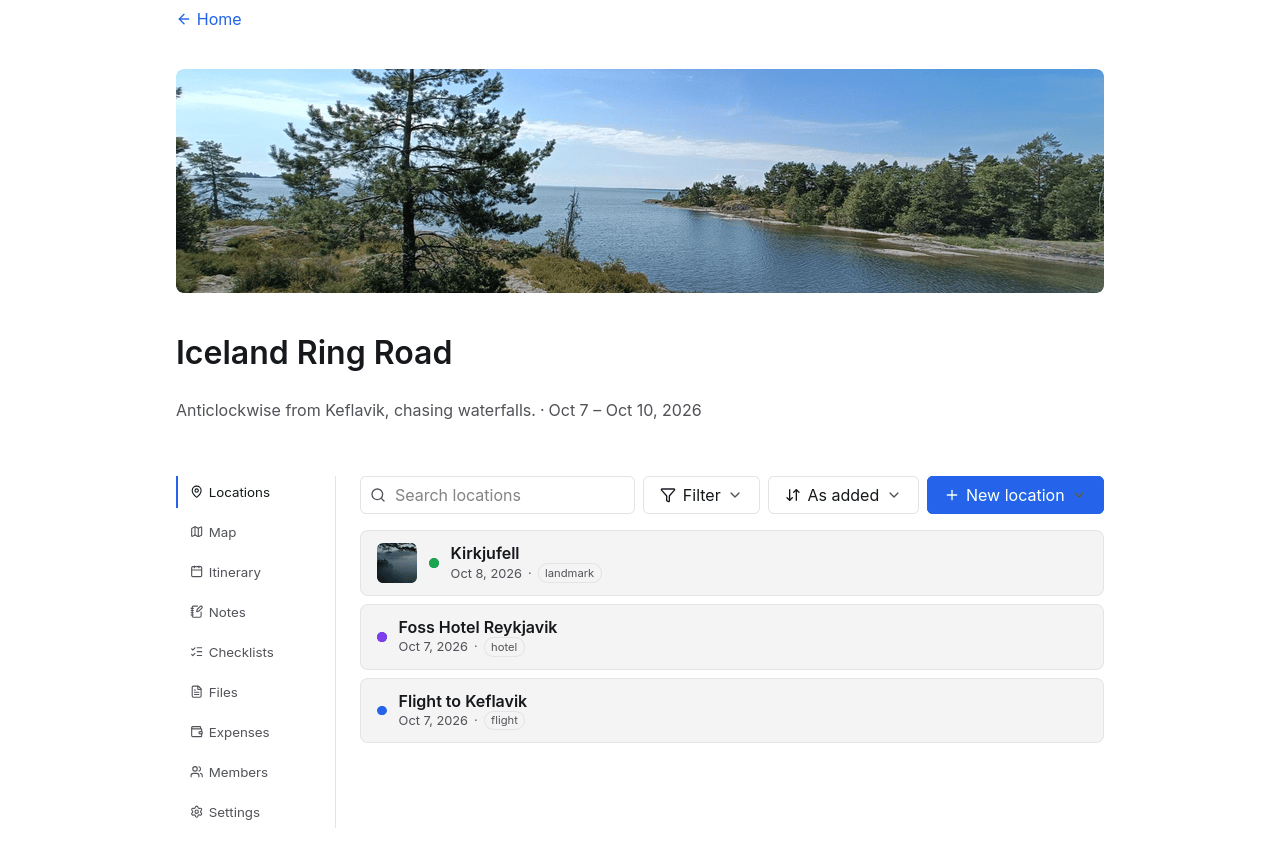
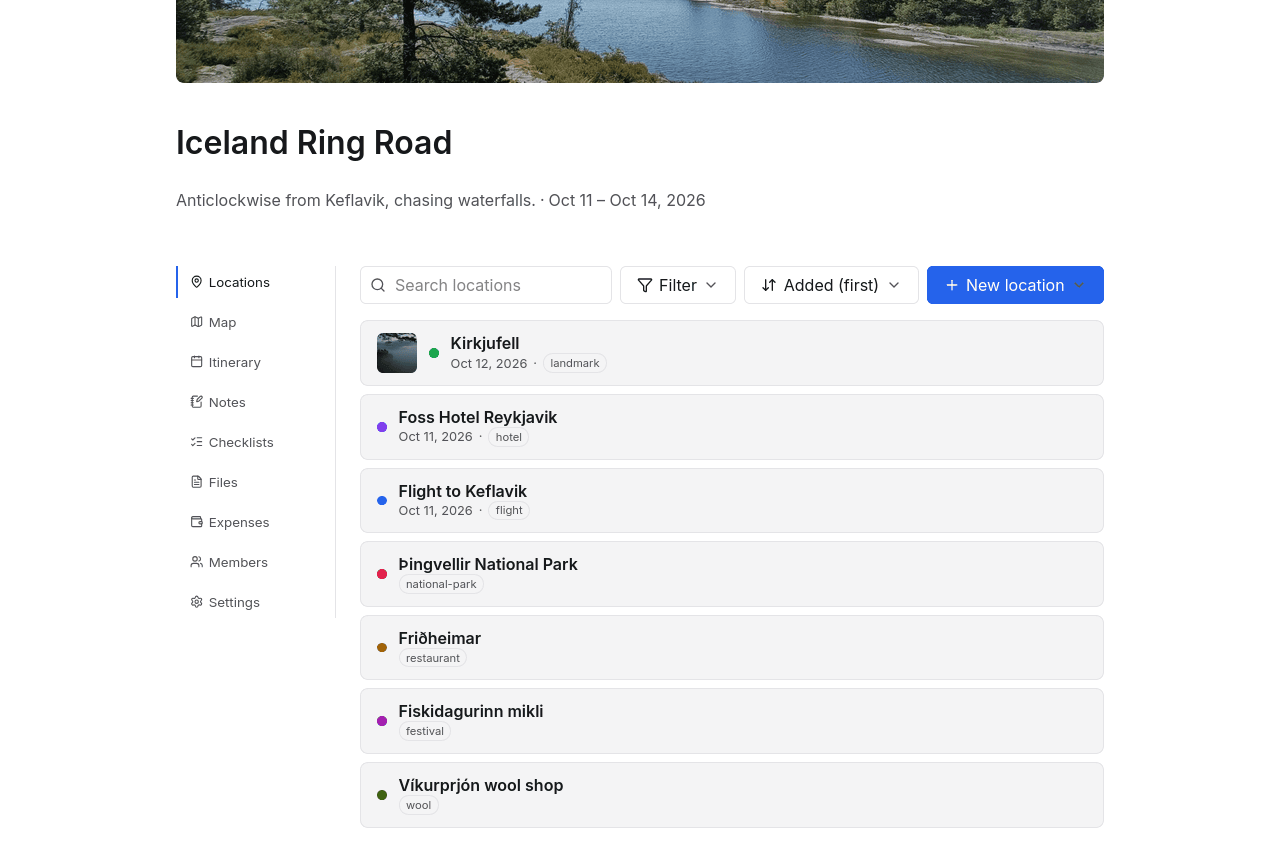
Seed a location for area, food, event and shop
The full demo trip only had a site, a stay and a transport, so four of the
seven categories never had a pin on the map, a card in a screenshot or markup
for the route sweeps to measure. It now has one of each: Þingvellir (area),
Friðheimar (food), Fiskidagurinn mikli (event) and Víkurprjón (shop),
appended after the existing three so items[0..2] keep their roles. All are
more than 5km from the hotel, which the distance-filter spec relies on.

Two things came along:

- ListMapItemsByTrip had no ORDER BY. SQLite returned the markers in
  category-name order (via idx_items_trip_id_category), so an area pin would
  have become the first marker, breaking map-theme.spec.js, which compares
  the first marker with the first legend key. It now orders by created_at,
  id like ListItemsByTrip, so marker order is defined on both dialects.

- The near-miss specs in map.spec.js clicked at the first pin's viewport
  coordinates without scrolling the map into view. With the wider bounds,
  Kirkjufell sits below the fold at 1280x720 and the click missed;
  pinCentres now scrolls the map into view first.

The todo.md entry is removed. locations, map and mobile-map screenshots are
regenerated (with pngquant); the other screenshots are unchanged.

Verified: make ci, make test-postgres, make test-ui (339 passed; the four
near-miss tests failed in Firefox before the scroll fix and pass on main),
make docs. Playwright at 324x756 against make dev: 7 item cards, no
[…]

diff --git a/tests/ui/map.spec.js b/tests/ui/map.spec.js
@@ -833,14 +833,19 @@ test.describe("a marker popup shows the location photo", () => {
 // path runs off the map's own click event, which a dispatched event on a
 // marker would bypass.
 test.describe("a near miss still opens the pin", () => {
-  // Viewport coordinates of every pin's centre, in marker (DOM) order.
+  // Viewport coordinates of every pin's centre, in marker (DOM) order. The
+  // map is scrolled into view first: page.mouse clicks at viewport
+  // coordinates, and at 1280x720 the map starts low enough on the trip page
+  // that a pin in its lower half is below the fold.
   function pinCentres(page) {
-    return page.evaluate(() =>
-      [...document.querySelector("map-view").shadowRoot.querySelectorAll(".maplibregl-marker")].map((m) => {
+    return page.evaluate(() => {
+      const host = document.querySelector("map-view");
+      host.scrollIntoView({ block: "center" });
+      return [...host.shadowRoot.querySelectorAll(".maplibregl-marker")].map((m) => {
         const r = m.getBoundingClientRect();
         return { x: r.x + r.width / 2, y: r.y + r.height / 2, width: r.width, height: r.height };
-      })
-    );
+      });
+    });
   }
 
   // Which marker's popup is open, by index; -1 for none.

diff --git a/cmd/seed/main.go b/cmd/seed/main.go
@@ -508,6 +508,19 @@ func seedFull(s seedCtx) error {
 			notes: "Check-in from 15:00.", lat: ptr(64.1466), lng: ptr(-21.9426), onMap: true},
 		{key: "kef-flight", category: "transport", tags: []string{"flight"}, title: "Flight to Keflavik",
 			notes: "Seat 14A.", lat: ptr(63.9850), lng: ptr(-22.6056), onMap: true},
+		// One location for each remaining category, so all seven have a pin on
+		// the map, a card in the screenshots and markup for the route sweeps to
+		// measure. Appended after the three above, which are used by index below.
+		// All are more than 5km from the hotel: the distance-filter spec expects
+		// the hotel alone within that radius.
+		{key: "thingvellir", category: "area", tags: []string{"national-park"}, title: "Þingvellir National Park",
+			notes: "Walk the rift between the plates.", lat: ptr(64.2559), lng: ptr(-21.1299), onMap: true},
+		{key: "fridheimar", category: "food", tags: []string{"restaurant"}, title: "Friðheimar",
+			notes: "Tomato soup in the greenhouse.", lat: ptr(64.1756), lng: ptr(-20.4458), onMap: true},
+		{key: "fish-day", category: "event", tags: []string{"festival"}, title: "Fiskidagurinn mikli",
+			notes: "Free fish soup all over Dalvík.", lat: ptr(65.9702), lng: ptr(-18.5286), onMap: true},
+		{key: "vik-wool", category: "shop", tags: []string{"wool"}, title: "Víkurprjón wool shop",
+			notes: "Sweaters for the cold days.", lat: ptr(63.4189), lng: ptr(-19.0064), onMap: true},
 	})
 	if err != nil {
 		return err

diff --git a/internal/db/sqlc/postgres/gen/items.sql.go b/internal/db/sqlc/postgres/gen/items.sql.go
@@ -198,6 +198,7 @@ SELECT i.id, i.category, i.title, i.show_on_map, i.image_id, l.lat, l.lng, l.add
 FROM items i
 INNER JOIN item_locations l ON l.item_id = i.id
 WHERE i.trip_id = $1 AND l.lat IS NOT NULL AND l.lng IS NOT NULL
+ORDER BY i.created_at, i.id
 `
 
 type ListMapItemsByTripRow struct {
@@ -222,6 +223,9 @@ type ListMapItemsByTripRow struct {
 // image_id is selected so the popup can show the same photo the location page
 // shows. It is the id, not a URL -- media assets are resolved through
 // resolveImageURL in the API layer, the way the itinerary list does it.
+// Creation order, as in the locations list. Without an ORDER BY the markers
+// came out in whatever order the index scan gave, which on SQLite was sorted
+// by category name and on Postgres is not promised at all.
 func (q *Queries) ListMapItemsByTrip(ctx context.Context, tripID string) ([]ListMapItemsByTripRow, error) {
 	rows, err := q.db.QueryContext(ctx, listMapItemsByTrip, tripID)
 	if err != nil {

diff --git a/internal/db/sqlc/sqlite/gen/items.sql.go b/internal/db/sqlc/sqlite/gen/items.sql.go
@@ -197,6 +197,7 @@ SELECT i.id, i.category, i.title, i.show_on_map, i.image_id, l.lat, l.lng, l.add
 FROM items i
 INNER JOIN item_locations l ON l.item_id = i.id
 WHERE i.trip_id = ?1 AND l.lat IS NOT NULL AND l.lng IS NOT NULL
+ORDER BY i.created_at, i.id
 `
 
 type ListMapItemsByTripRow struct {
@@ -221,6 +222,9 @@ type ListMapItemsByTripRow struct {
 // image_id is selected so the popup can show the same photo the location page
 // shows. It is the id, not a URL -- media assets are resolved through
 // resolveImageURL in the API layer, the way the itinerary list does it.
+// Creation order, as in the locations list. Without an ORDER BY the markers
+// came out in whatever order the index scan gave, which on SQLite was sorted
+// by category name and on Postgres is not promised at all.
 func (q *Queries) ListMapItemsByTrip(ctx context.Context, tripID string) ([]ListMapItemsByTripRow, error) {
 	rows, err := q.db.QueryContext(ctx, listMapItemsByTrip, tripID)
 	if err != nil {

diff --git a/internal/db/sqlc/postgres/gen/querier.go b/internal/db/sqlc/postgres/gen/querier.go
@@ -206,6 +206,9 @@ type Querier interface {
 	// image_id is selected so the popup can show the same photo the location page
 	// shows. It is the id, not a URL -- media assets are resolved through
 	// resolveImageURL in the API layer, the way the itinerary list does it.
+	// Creation order, as in the locations list. Without an ORDER BY the markers
+	// came out in whatever order the index scan gave, which on SQLite was sorted
+	// by category name and on Postgres is not promised at all.
 	ListMapItemsByTrip(ctx context.Context, tripID string) ([]ListMapItemsByTripRow, error)
 	// Every personal list belonging to one user on one trip, for the moment they
 	// stop being a member. Same treatment as their personal files.

diff --git a/internal/db/sqlc/sqlite/gen/querier.go b/internal/db/sqlc/sqlite/gen/querier.go
@@ -205,6 +205,9 @@ type Querier interface {
 	// image_id is selected so the popup can show the same photo the location page
 	// shows. It is the id, not a URL -- media assets are resolved through
 	// resolveImageURL in the API layer, the way the itinerary list does it.
+	// Creation order, as in the locations list. Without an ORDER BY the markers
+	// came out in whatever order the index scan gave, which on SQLite was sorted
+	// by category name and on Postgres is not promised at all.
 	ListMapItemsByTrip(ctx context.Context, tripID string) ([]ListMapItemsByTripRow, error)
 	// Every personal list belonging to one user on one trip, for the moment they
 	// stop being a member. Same treatment as their personal files.

diff --git a/plans/todo.md b/plans/todo.md
@@ -193,14 +193,6 @@ without asking.
 
 ## Testing, CI and dev tooling
 
-- **No seeded location for `area`, `food`, `event` or `shop`.** **(soon)**
-  (Stage 37.) The demo trip in `cmd/seed/main.go` has only a site and a stay,
-  so most of the seven categories never appear in a screenshot, in the map
-  legend with a pin behind it, or in any UI assertion. Adding them is a
-  line each, but specs count cards on the seeded trips (e.g.
-  `assist-suggest.spec.js` around line 121), so it wants doing together with
-  those specs.
-
 - **`scripts/check_js.sh` cannot see a `.mjs` file.** **(soon)** (Stage 30
   Milestone 1.) It walks `find web/js -name '*.js'` (line 42), so the vendored
   MapLibre `.mjs` modules go unparsed -- acceptable for them, since
